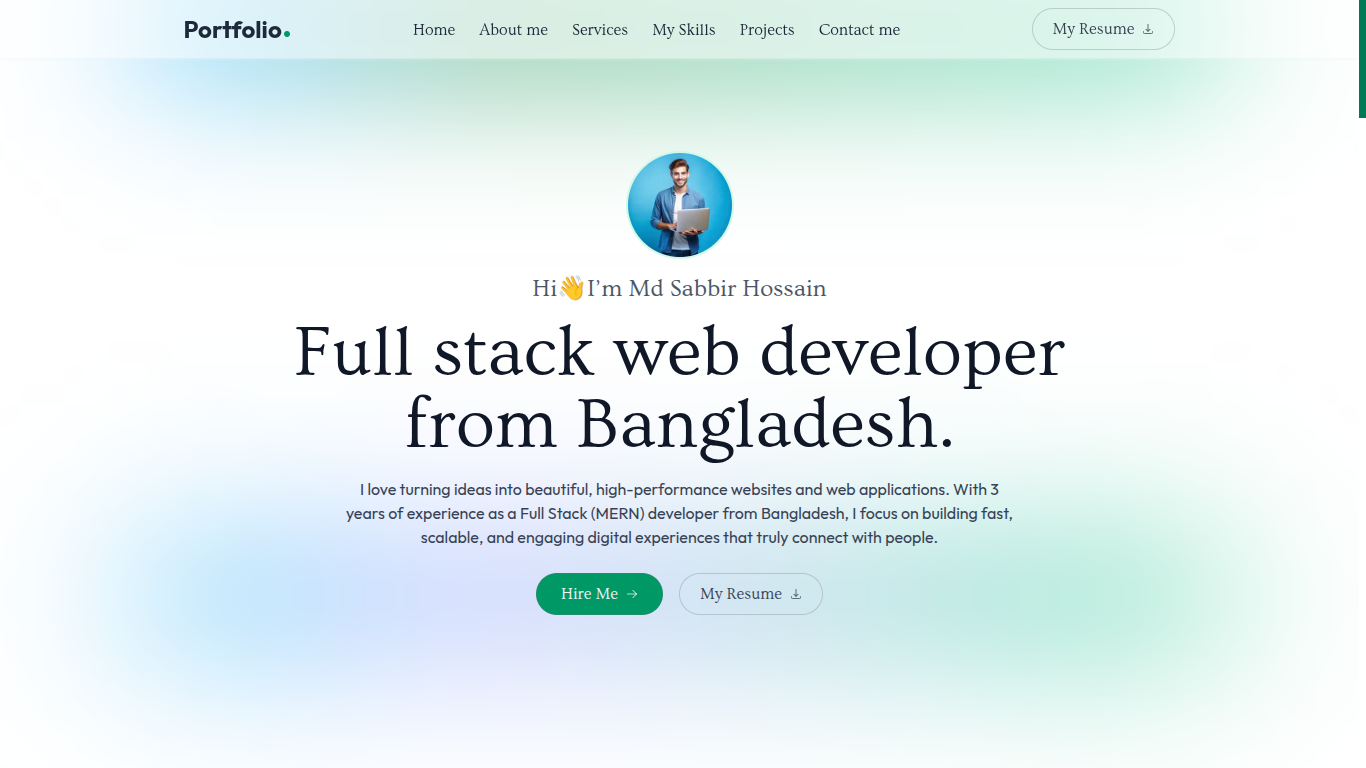
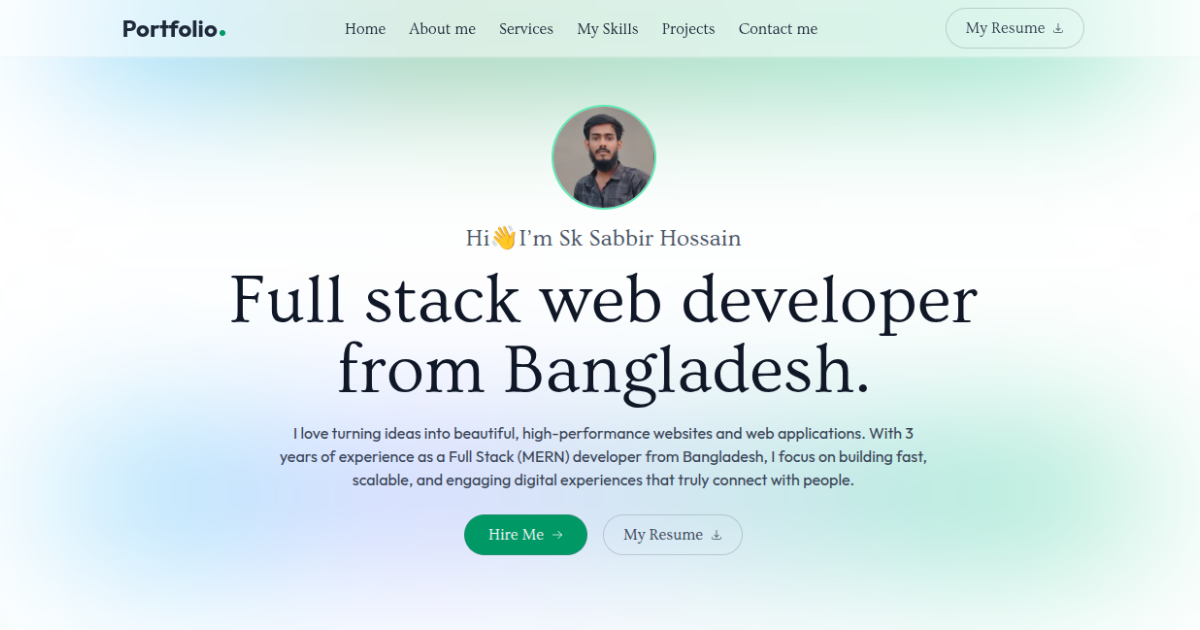
updated metadata and setup sitesmap

diff --git a/app/layout.js b/app/layout.js
@@ -17,15 +17,50 @@ const ovo = Ovo({
   display: "swap",
 });
 
+// metadata
 export const metadata = {
-  title: {
-    default: "Portfolio",
-    template: "%s - Portfolio",
-  },
+  title: "Sk Sabbir Hossain | Full Stack Web Developer",
   description:
-    "Md Sabbir Hossain – Full Stack MERN Developer from Bangladesh. I create modern, responsive websites and web applications using Next.js, React, Node.js, Express, and MongoDB. Explore my portfolio to see projects in real-time apps, authentication systems, and scalable solutions",
+    "I'm Sk Sabbir Hossain, a Bangladeshi Full Stack Web Developer (MERN Stack) skilled in Next.js, React, Node.js, and MongoDB. Passionate about building production-grade web applications.",
+  keywords: [
+    "Sk Sabbir Hossain",
+    "Full Stack Developer",
+    "MERN Stack Developer",
+    "Next.js Developer",
+    "React Developer",
+    "Node.js Developer",
+  ],
+  authors: [
+    {
+      name: "Sk Sabbir Hossain",
+      url: "https://sk-sabbir-hossain-portfolio.vercel.app",
+    },
+  ],
+  openGraph: {
+    title: "Sk Sabbir Hossain | Full Stack Web Developer",
+    description:
+      "Full Stack Web Developer skilled in Next.js, React, Node.js, and MongoDB.",
+    url: "https://sk-sabbir-hossain-portfolio.vercel.app",
+    siteName: "Sk Sabbir Hossain Portfolio",
+    images: [
+      {
+        url: "https://sk-sabbir-hossain-portfolio.vercel.app/sk-sabbir-hossain.png",
+        width: 1200,
+        height: 630,
+        alt: "Sk Sabbir Hossain",
+      },
+    ],
+    locale: "en_US",
+    type: "website",
+  },
   twitter: {
     card: "summary_large_image",
+    title: "Sk Sabbir Hossain | Full Stack Web Developer",
+    description:
+      "Full Stack Web Developer skilled in Next.js, React, Node.js, and MongoDB.",
+    images: [
+      "https://sk-sabbir-hossain-portfolio.vercel.app/sk-sabbir-hossain.png",
+    ],
   },
 };
 

diff --git a/app/page.js b/app/page.js
@@ -7,15 +7,41 @@ import Services from "@/components/Home/Services";
 import Skills from "@/components/Home/Skills";
 
 export default function Home() {
+  const schemaData = {
+    "@context": "https://schema.org",
+    "@type": "Person",
+    name: "Sk Sabbir Hossain",
+    alternateName: ["Sabbir Hossain", "Sk S Hossain"],
+    image:
+      "https://sk-sabbir-hossain-portfolio.vercel.app/sk-sabbir-hossain.png",
+    jobTitle: "Full Stack Web Developer",
+    url: "https://sk-sabbir-hossain-portfolio.vercel.app",
+    sameAs: [
+      "https://www.facebook.com/sksabbirhossain4",
+      "https://www.instagram.com/sk.sabbir.hossain",
+      "https://www.linkedin.com/in/sk-sabbir-hossain",
+      "https://github.com/sksabbirhossain",
+      "https://x.com/sksabbir393",
+    ],
+    description:
+      "Sk Sabbir Hossain is a Bangladeshi Full Stack Web Developer skilled in Next.js, React, Node.js, and MongoDB, passionate about creating production-ready web applications.",
+  };
   return (
-    <div className="space-y-16 sm:space-y-24">
-      <Hero />
-      <About />
-      <Services />
-      <Skills />
-      <Projects />
-      <Contact />
-      <ScrollToTop />
-    </div>
+    <>
+      {/* ✅ JSON-LD structured data for Google */}
+      <script
+        type="application/ld+json"
+        dangerouslySetInnerHTML={{ __html: JSON.stringify(schemaData) }}
+      />
+      <div className="space-y-16 sm:space-y-24">
+        <Hero />
+        <About />
+        <Services />
+        <Skills />
+        <Projects />
+        <Contact />
+        <ScrollToTop />
+      </div>
+    </>
   );
 }

diff --git a/components/Home/Hero.js b/components/Home/Hero.js
@@ -19,21 +19,21 @@ const Hero = () => {
             transition={{ duration: 0.8, type: "spring", stiffness: 100 }}
           >
             <Image
-              src={"/me.png"}
+              src={"/sk-sabbir-hossain.png"}
               width={150}
               height={150}
               alt="me image"
-              className="h-24 w-24 rounded-full object-cover ring-2 ring-emerald-100 sm:h-26 sm:w-26"
+              className="h-24 w-24 rounded-full object-cover ring-2 ring-emerald-300 sm:h-26 sm:w-26"
             />
           </motion.div>
-          <motion.p
+          <motion.h1
             initial={{ y: -20, opacity: 0 }}
             whileInView={{ y: 0, opacity: 1 }}
             transition={{ duration: 0.6, delay: 0.3 }}
             className="font-ovo text-xl text-gray-600 capitalize sm:text-2xl"
           >
-            Hi👋I’m Md Sabbir Hossain 
-          </motion.p>
+            Hi👋I’m Sk Sabbir Hossain
+          </motion.h1>
         </div>
         <div className="mt-3 flex flex-col items-center justify-center text-center">
           <motion.h1

diff --git a/components/common/Footer/Footer.js b/components/common/Footer/Footer.js
@@ -11,7 +11,7 @@ const Footer = () => {
         <div className="mx-auto w-full max-w-5xl px-4 py-4">
           <div className="flex h-full w-full flex-wrap items-center justify-center gap-2 text-[#626262] sm:gap-5 lg:justify-between">
             <p className="font-ovo text-center text-[16px] capitalize">
-              © 2025 Md Sabbir Hossain. All rights reserved.
+              © 2025 Sk Sabbir Hossain. All rights reserved.
             </p>
 
             <div className="flex flex-wrap items-center gap-4">

diff --git a/next-sitemap.config.js b/next-sitemap.config.js
@@ -1,0 +1,15 @@
+/** @type {import('next-sitemap').IConfig} */
+module.exports = {
+  siteUrl: "https://sk-sabbir-hossain-portfolio.vercel.app",
+  generateRobotsTxt: true, // (optional)
+  sitemapSize: 7000,
+  changefreq: "weekly",
+  priority: 0.7,
+  exclude: ["/server-sitemap.xml"], // optional if needed
+  robotsTxtOptions: {
+    policies: [{ userAgent: "*", allow: "/" }],
+    additionalSitemaps: [
+      "https://sk-sabbir-hossain-portfolio.vercel.app/sitemap.xml",
+    ],
+  },
+};
